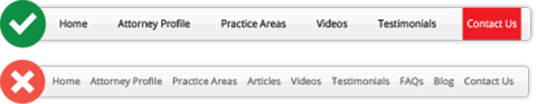
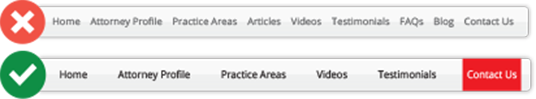
:memo: Update website marketing images

diff --git a/dist/website-marketing.html b/dist/website-marketing.html
@@ -155,7 +155,7 @@ a[href^=tel],
                         <tr>
                           <td  style="border-radius: 5px; padding: 27px 60px; background-color: #ff6b00; text-align: center; width: 100%;" width="100%" align="center" bgcolor="#ff6b00">
                             <a href="#" target="_blank" style="text-decoration: none; cursor: pointer; color: #06357a;">
-                              <img alt="[placeholder]" src="https://justatic.com/v/1/emails/images/lawyer-directory/2018/09/website-marketing-mobile-experience-01.png" tabindex="0" border="0"  style="display: block; margin: 0 auto; Margin: 0 auto; width: 139.230769231px; height: 146.153846154px;" width="139.230769231" height="146.153846154">
+                              <img alt="[placeholder]" src="https://justatic.com/v/2/emails/images/lawyer-directory/2018/09/website-marketing-mobile-experience-01.png" tabindex="0" border="0"  style="display: block; margin: 0 auto; Margin: 0 auto; width: 139.230769231px; height: 146.153846154px;" width="139.230769231" height="146.153846154">
                             </a>
                           </td>
                         </tr>
@@ -170,7 +170,7 @@ a[href^=tel],
                       <table border="0" cellspacing="0" cellpadding="0" align="center"  style="width: 100%; table-layout: fixed; border-collapse: collapse; padding: 3px 3px 19px; border-radius: 5px; background-color: #f4f4f4;" width="100%" bgcolor="#f4f4f4">
                         <tr>
                           <td  style="border-radius: 5px; padding: 45px 22px; background-color: #ffc700; text-align: center; width: 100%;" width="100%" align="center" bgcolor="#ffc700">
-                            <a href="#" target="_blank" style="text-decoration: none; cursor: pointer; color: #06357a;"><img alt="[placeholder]" src="https://justatic.com/v/1/emails/images/lawyer-directory/2018/09/website-marketing-readability-01.png" tabindex="0" border="0"  style="display: block; margin: 0 auto; Margin: 0 auto; width: 216.153846154px; height: 109.230769231px;" width="216.153846154" height="109.230769231"></a>
+                            <a href="#" target="_blank" style="text-decoration: none; cursor: pointer; color: #06357a;"><img alt="[placeholder]" src="https://justatic.com/v/2/emails/images/lawyer-directory/2018/09/website-marketing-readability-01.png" tabindex="0" border="0"  style="display: block; margin: 0 auto; Margin: 0 auto; width: 216.153846154px; height: 109.230769231px;" width="216.153846154" height="109.230769231"></a>
                           </td>
                         </tr>
                         <tr>
@@ -186,7 +186,7 @@ a[href^=tel],
                       <table border="0" cellspacing="0" cellpadding="0" align="center"  style="width: 100%; table-layout: fixed; border-collapse: collapse; padding: 3px 3px 19px; border-radius: 5px; background-color: #f4f4f4;" width="100%" bgcolor="#f4f4f4">
                         <tr>
                           <td  style="border-radius: 5px; padding: 54px 63px 46px 62px; background-color: #00b3e3; text-align: center; width: 100%;" width="100%" align="center" bgcolor="#00b3e3">
-                            <a href="#" target="_blank" style="text-decoration: none; cursor: pointer; color: #06357a;"><img alt="[placeholder]" src="https://justatic.com/v/1/emails/images/lawyer-directory/2018/09/website-marketing-navigation-01.png" tabindex="0" border="0"  style="display: block; margin: 0 auto; Margin: 0 auto; width: 412.307692308px; height: 80px;" width="412.307692308" height="80"></a>
+                            <a href="#" target="_blank" style="text-decoration: none; cursor: pointer; color: #06357a;"><img alt="[placeholder]" src="https://justatic.com/v/2/emails/images/lawyer-directory/2018/09/website-marketing-navigation-01.png" tabindex="0" border="0"  style="display: block; margin: 0 auto; Margin: 0 auto; width: 412.307692308px; height: 76.1538461538px;" width="412.307692308" height="76.1538461538"></a>
                           </td>
                         </tr>
                         <tr>
@@ -205,7 +205,7 @@ a[href^=tel],
                         <tr>
                           <td style="text-align: center; width: 100%;" width="100%" align="center">
                             <!-- .wrapper -->
-                            <a href="#" target="_blank" style="text-decoration: none; cursor: pointer; display: block; text-align: center; line-height: 1; color: #06357a; font-weight: 700; padding: 15px 0;">
+                            <a href="#" target="_blank" style="cursor: pointer; display: block; text-align: center; text-decoration: none !important; line-height: 1; color: #06357a; font-weight: 700; padding: 15px 0;">
                               <span  style="color: #ffffff; font-weight: 700; font-size: 14px;">
                                 READ MORE
                               </span>

diff --git a/dist/price-increase-reminder.html b/dist/price-increase-reminder.html
@@ -140,11 +140,11 @@ a[href^=tel],
         <td style="text-align: left;" align="left">
           <table border="0" cellspacing="0" cellpadding="0" align="center"  style="table-layout: fixed; border-collapse: collapse; width: 600px;" width="600">
             <tr>
-                  <td  background="https://justatic.com/v/1/emails/images/lawyer-directory/2018/09/price-increase-reminder-background-01.png" style="height: 400px; padding: 0 !important; background: url('https://justatic.com/v/1/emails/images/lawyer-directory/2018/09/price-increase-reminder-background-01.png'); background-color: #083f83; background-repeat: no-repeat !important; background-size: 600px 400px; vertical-align: top; text-align: center; width: 100%;" width="100%" height="400" align="center" bgcolor="#083f83" valign="top">
+                  <td  background="https://justatic.com/v/2/emails/images/lawyer-directory/2018/09/price-increase-reminder-background-01.png" style="height: 400px; padding: 0 !important; background: url('https://justatic.com/v/2/emails/images/lawyer-directory/2018/09/price-increase-reminder-background-01.png'); background-color: #083f83; background-repeat: no-repeat !important; background-size: 600px 400px; vertical-align: top; text-align: center; width: 100%;" width="100%" height="400" align="center" bgcolor="#083f83" valign="top">
                     <!--[if mso]><v:rect xmlns:v="urn:schemas-microsoft-com:vml" fill="true" stroke="false" style="width:600px;
-                            height:400px;border:0;outline:0;"><v:fill type="tile" src="https://justatic.com/v/1/emails/images/lawyer-directory/2018/09/price-increase-reminder-background-01.png" color="#083f83" /><v:textbox inset="0,0,0,0"><![endif]-->
+                            height:400px;border:0;outline:0;"><v:fill type="tile" src="https://justatic.com/v/2/emails/images/lawyer-directory/2018/09/price-increase-reminder-background-01.png" color="#083f83" /><v:textbox inset="0,0,0,0"><![endif]-->
               <a href="#" target="_blank" style="text-decoration: none; cursor: pointer; color: #000000;">
-                <img alt="ONLY 4 DAY$ LEFT!" src="https://justatic.com/v/1/emails/images/lawyer-directory/2018/09/price-increase-reminder-animation-01.gif" tabindex="0" border="0"  style="display: block; width: 600px; height: 400px; margin: 0 auto; Margin: 0 auto;" width="600" height="400">
+                <img alt="ONLY 4 DAY$ LEFT!" src="https://justatic.com/v/2/emails/images/lawyer-directory/2018/09/price-increase-reminder-animation-01.gif" tabindex="0" border="0"  style="display: block; width: 600px; height: 400px; margin: 0 auto; Margin: 0 auto;" width="600" height="400">
               </a>
                   <!--[if mso]></v:textbox></v:rect><![endif]-->
                 </td>
@@ -163,7 +163,7 @@ a[href^=tel],
                   <tr>
                     <td style="text-align: center; width: 100%;" width="100%" align="center">
                       <!-- .wrapper -->
-                      <a href="#" target="_blank" style="text-decoration: none; cursor: pointer; display: block; text-align: center; line-height: 1; color: #000000; font-weight: 700; padding: 14px 0;">
+                      <a href="#" target="_blank" style="cursor: pointer; display: block; text-align: center; text-decoration: none !important; line-height: 1; color: #000000; font-weight: 700; padding: 14px 0;">
                         <span  style="color: #ffffff; font-weight: 700; font-size: 18px;">
                           Contact Us Now To Lock In the Best Rate
                         </span>

diff --git a/src/css/main.css b/src/css/main.css
@@ -12,6 +12,7 @@
   padding: 7px 0;
   color: #00b3e3;
   text-align: center;
+  text-decoration: none !important;
   line-height: 1;
 }
 
@@ -398,7 +399,7 @@ body {
 
 .website-marketing .-navigation .image {
   width: 412.307692308px;
-  height: 80px;
+  height: 76.1538461538px;
 }
 
 .website-marketing .btn {
